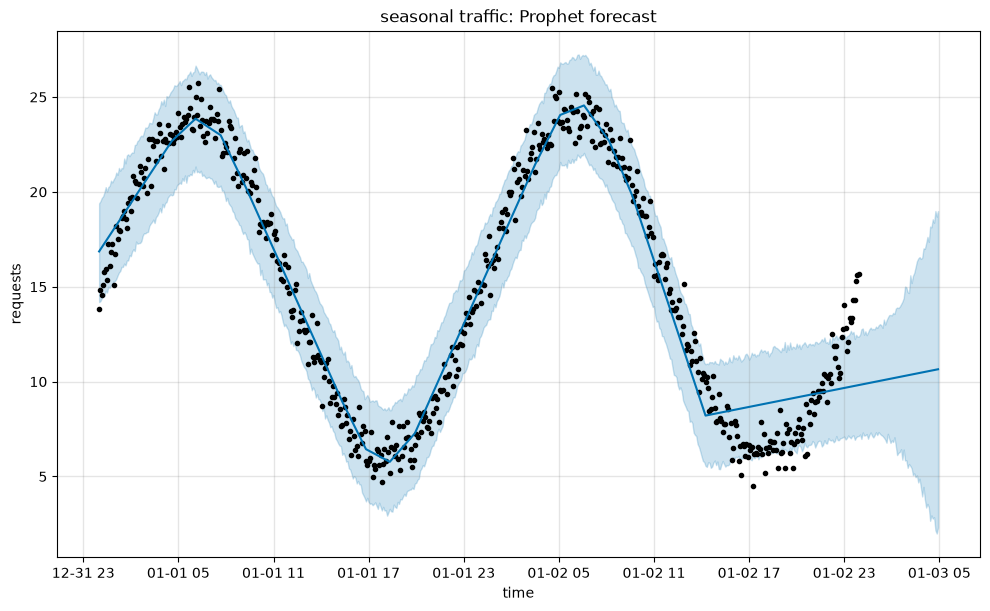
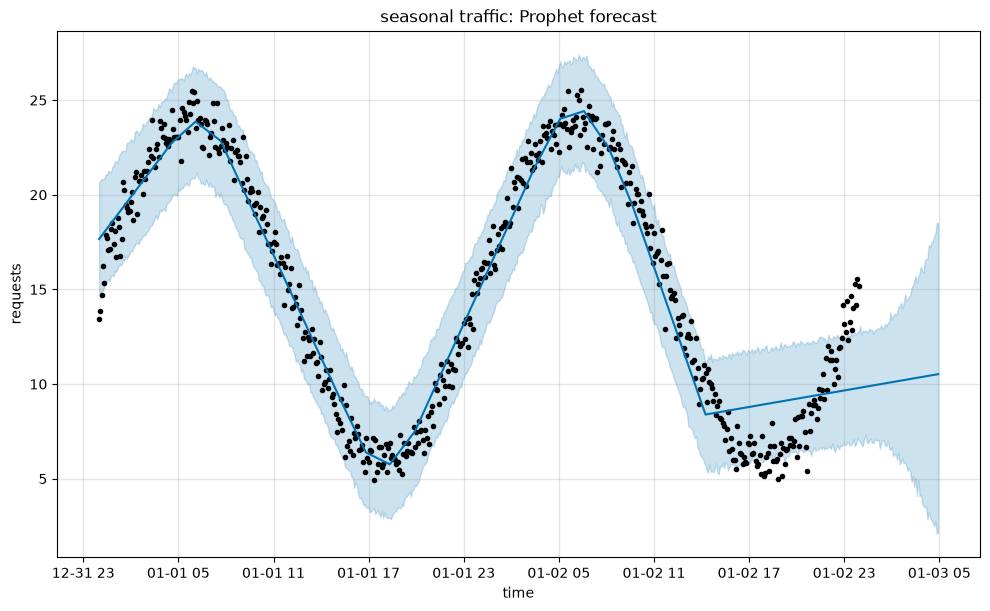
modified local experiments

Changed region(s): [[0.0303, 0.0933, 0.9697, 0.8396], [0.9091, 0.5908, 0.9394, 0.6219]]

diff --git a/local-testing/explore_prophet.py b/local-testing/explore_prophet.py
@@ -1,16 +1,22 @@
-"""
-Run this locally to see exactly what Prophet's input and output look like, with no
-AWS/Lambda dependency. Use it to build intuition before deciding what modifications
-(regressors, confidence-bound triggers, etc.) you actually need.
-
-Usage: python explore_prophet.py
-"""
-
 import pandas as pd
 import matplotlib.pyplot as plt
 from prophet import Prophet
 
 from synthetic_traffic import generate_steady, generate_spiky, generate_seasonal
+
+
+def compute_required_concurrency(forecast_df: pd.DataFrame, buffer_percent: float = 10.0) -> pd.DataFrame:
+    """
+    Layer 2: confidence-bound scaling trigger. Scales to yhat_upper (clipped at 0,
+    since negative concurrency is meaningless) instead of yhat, plus a buffer on top.
+    This is the number you'd actually send to put_provisioned_concurrency_config.
+    """
+    forecast_df = forecast_df.copy()
+    forecast_df["required_concurrency_vanilla"] = forecast_df["yhat"].clip(lower=0).round().astype(int)
+    forecast_df["required_concurrency_enhanced"] = (
+        forecast_df["yhat_upper"].clip(lower=0) * (1 + buffer_percent / 100)
+    ).round().astype(int)
+    return forecast_df
 
 
 def explore(pattern_name: str, df: pd.DataFrame, forecast_periods: int = 60):
@@ -53,6 +59,22 @@ def explore(pattern_name: str, df: pd.DataFrame, forecast_periods: int = 60):
     print(f"\n% of forecasted yhat_lower values that are negative: {negative_lower_pct:.1f}%")
     print("(Negative lower bounds don't make sense for a traffic count -- vanilla")
     print(" Prophet doesn't know y can't go below 0 unless you tell it to.)")
+
+    # ---- LAYER 2: confidence-bound trigger vs vanilla ----
+    # This is the actual comparison that justifies scaling to yhat_upper instead of
+    # yhat: how many MORE concurrent executions would you provision under the
+    # enhanced approach vs vanilla, for the exact same forecast?
+    scaled = compute_required_concurrency(future_only)
+    print("\n--- Layer 2: required concurrency, vanilla vs enhanced trigger ---")
+    print(scaled[["ds", "yhat", "yhat_upper", "required_concurrency_vanilla", "required_concurrency_enhanced"]].head(10))
+    avg_vanilla = scaled["required_concurrency_vanilla"].mean()
+    avg_enhanced = scaled["required_concurrency_enhanced"].mean()
+    print(f"\nAvg required concurrency -- vanilla (yhat): {avg_vanilla:.1f}")
+    print(f"Avg required concurrency -- enhanced (yhat_upper + 10% buffer): {avg_enhanced:.1f}")
+    print(f"Enhanced provisions {(avg_enhanced / avg_vanilla - 1) * 100:.0f}% more capacity on average")
+    print("(For spiky traffic this gap should be large -- that's the headroom that")
+    print(" prevents cold starts when the real spike hits. For steady traffic the gap")
+    print(" should be small, since yhat and yhat_upper are already close together.)")
 
     # ---- PLOT ----
     fig = model.plot(forecast)

diff --git a/local-testing/synthetic_traffic.py b/local-testing/synthetic_traffic.py
@@ -1,9 +1,3 @@
-"""
-Generates synthetic ds/y traffic data for local Prophet experimentation --
-no AWS, no Lambda, no Locust needed. Same three patterns your real experiments
-will use later, so what you learn here transfers directly.
-"""
-
 import numpy as np
 import pandas as pd
 
